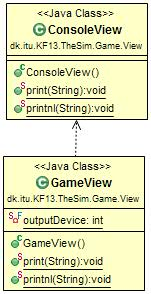
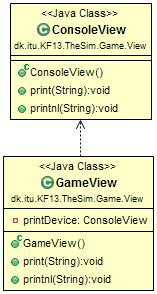
Changed some code in GameView and updated UML

Changed region(s): [[0.0, 0.0, 1.0, 1.0]]

diff --git a/TheGreatestGameInTheWorld/src/dk/itu/KF13/TheSim/Game/View/GameView.java b/TheGreatestGameInTheWorld/src/dk/itu/KF13/TheSim/Game/View/GameView.java
@@ -6,7 +6,7 @@ package dk.itu.KF13.TheSim.Game.View;
  *
  */
 public class GameView {
-	private ConsoleView printDevice;
+	private final ConsoleView printDevice;
 	
 	public GameView(){
 		printDevice = new ConsoleView();
